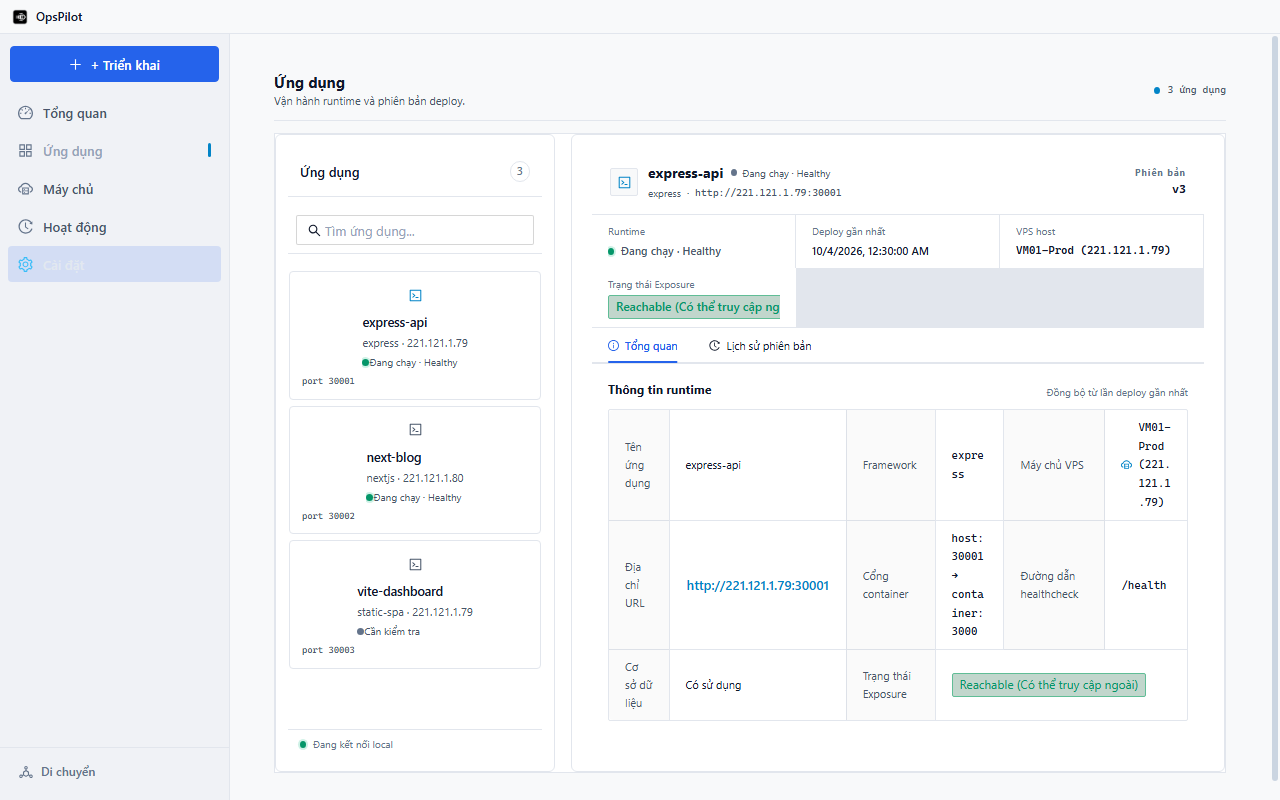
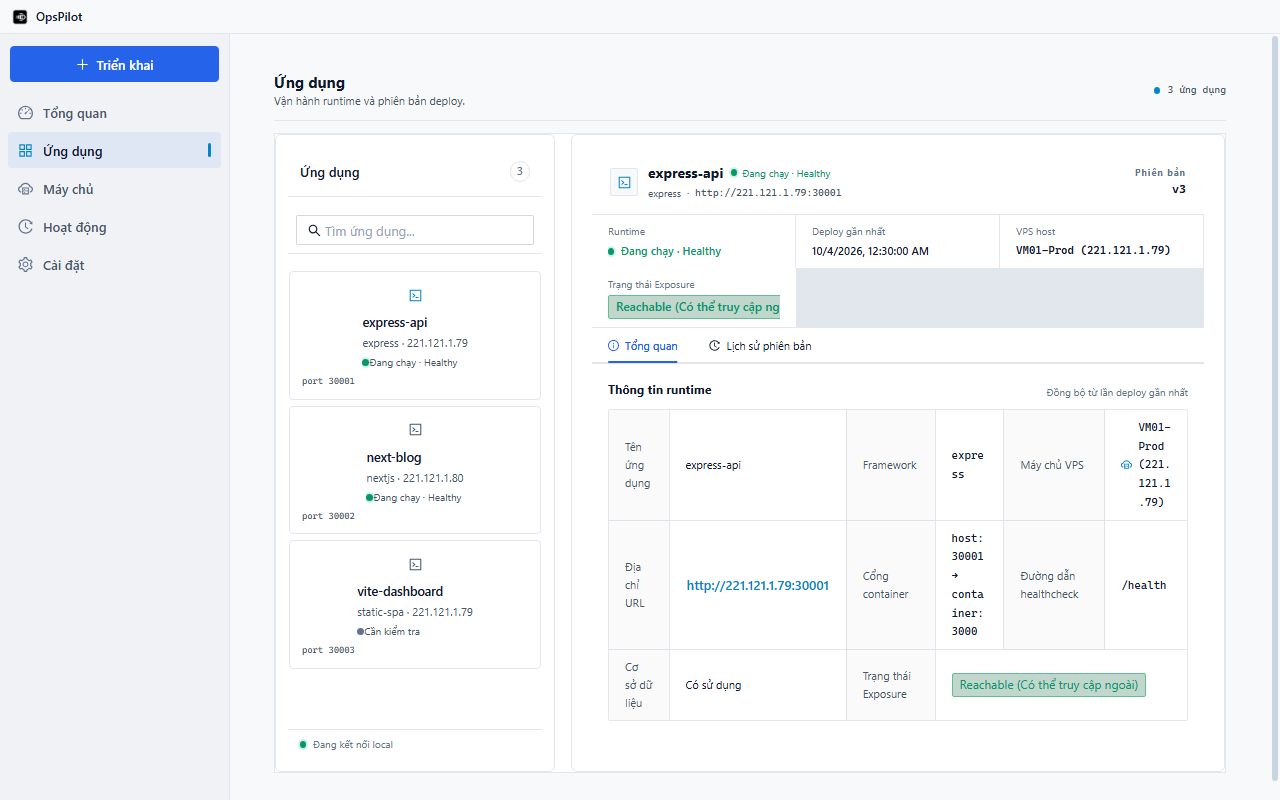
fix(ui): tinh chinh gate UI-1a shell, sidebar va anh chup cua so native

diff --git a/app/src/renderer/src/App.test.tsx b/app/src/renderer/src/App.test.tsx
@@ -61,14 +61,17 @@ describe('resolveActivePage', () => {
 })
 
 describe('App — UI-1a Desktop Shell & Navigation', () => {
-  it('hien thi dung 5 muc dieu huong chinh tren sidebar, nut deploy action va secondary migrate', () => {
+  it('hien thi dung 5 muc dieu huong chinh tren sidebar va nut deploy action', () => {
     useUiState.setState({ locale: 'vi', activePage: 'apps' })
     const { container } = render(<App />)
 
-    // Nut Deploy action
-    expect(screen.getByRole('button', { name: '+ Triển khai' })).toBeTruthy()
+    // Nut Deploy action: dung 1 icon plus va chu Trien khai (khong co 2 dau cong)
+    const deployBtn = screen.getByRole('button', { name: 'Triển khai' })
+    expect(deployBtn).toBeTruthy()
+    expect(deployBtn.querySelector('.anticon-plus')).toBeTruthy()
+    expect(deployBtn.textContent).toBe('Triển khai')
 
-    // 5 muc dieu huong chinh
+    // 5 muc dieu huong chinh tren sidebar
     const nav = container.querySelector('.app-sidebar-nav')
     expect(nav).toBeTruthy()
     const navButtons = nav?.querySelectorAll('button')
@@ -79,20 +82,22 @@ describe('App — UI-1a Desktop Shell & Navigation', () => {
     expect(screen.getByRole('button', { name: 'Hoạt động' })).toBeTruthy()
     expect(screen.getByRole('button', { name: 'Cài đặt' })).toBeTruthy()
 
-    // Hanh dong phu Migrate
-    expect(screen.getByRole('button', { name: 'Di chuyển' })).toBeTruthy()
+    // Sidebar khong con nut secondary migrate o day
+    expect(container.querySelector('.app-sidebar-secondary')).toBeNull()
+    const allSidebarButtons = container.querySelectorAll('.app-sidebar button')
+    expect(allSidebarButtons.length).toBe(6) // 1 deploy action + 5 nav items
 
     // Khong co status bar hay chu Ready co dinh
     expect(container.querySelector('.app-statusbar')).toBeNull()
     expect(container.querySelector('.app-sidebar-footer')).toBeNull()
   })
 
-  it('dieu huong sang Deploy qua nut + Triển khai va co the quay lai apps', () => {
+  it('dieu huong sang Deploy qua nut Triển khai va co the quay lai apps', () => {
     useUiState.setState({ locale: 'vi', activePage: 'apps' })
     render(<App />)
 
-    // Bam + Trien khai
-    fireEvent.click(screen.getByRole('button', { name: '+ Triển khai' }))
+    // Bam Trien khai
+    fireEvent.click(screen.getByRole('button', { name: 'Triển khai' }))
     expect(useUiState.getState().activePage).toBe('deploy')
 
     // DeployPage co nut Quay lai
@@ -102,11 +107,15 @@ describe('App — UI-1a Desktop Shell & Navigation', () => {
     expect(useUiState.getState().activePage).toBe('apps')
   })
 
-  it('dieu huong sang Migrate qua nut phu va mo dung trang', () => {
-    useUiState.setState({ locale: 'vi', activePage: 'apps' })
+  it('giu loi vao MigratePage qua nut Di chuyển / Migrate o trang VPS', () => {
+    useUiState.setState({ locale: 'vi', activePage: 'vps' })
     render(<App />)
 
-    fireEvent.click(screen.getByRole('button', { name: 'Di chuyển' }))
+    // O trang VPS co nut hanh dong 'Di chuyển'
+    const migrateBtn = screen.getByRole('button', { name: /Di chuyển/i })
+    expect(migrateBtn).toBeTruthy()
+
+    fireEvent.click(migrateBtn)
     expect(useUiState.getState().activePage).toBe('migrate')
     expect(screen.getByText('Migrate giữa hai VPS')).toBeTruthy()
   })
@@ -116,19 +125,18 @@ describe('App — UI-1a Desktop Shell & Navigation', () => {
     render(<App />)
 
     // EN
-    expect(screen.getByRole('button', { name: '+ Deploy' })).toBeTruthy()
+    expect(screen.getByRole('button', { name: 'Deploy' })).toBeTruthy()
     expect(screen.getByRole('button', { name: 'Dashboard' })).toBeTruthy()
     expect(screen.getByRole('button', { name: 'Applications' })).toBeTruthy()
     expect(screen.getByRole('button', { name: 'Servers' })).toBeTruthy()
     expect(screen.getByRole('button', { name: 'Activity' })).toBeTruthy()
     expect(screen.getByRole('button', { name: 'Settings' })).toBeTruthy()
-    expect(screen.getByRole('button', { name: 'Migrate' })).toBeTruthy()
 
     // VI
     act(() => {
       useUiState.getState().setLocale('vi')
     })
-    expect(screen.getByRole('button', { name: '+ Triển khai' })).toBeTruthy()
+    expect(screen.getByRole('button', { name: 'Triển khai' })).toBeTruthy()
     expect(screen.getByRole('button', { name: 'Tổng quan' })).toBeTruthy()
     expect(screen.getByRole('button', { name: 'Ứng dụng' })).toBeTruthy()
     expect(screen.getByRole('button', { name: 'Máy chủ' })).toBeTruthy()
@@ -139,7 +147,7 @@ describe('App — UI-1a Desktop Shell & Navigation', () => {
     act(() => {
       useUiState.getState().setLocale('cn')
     })
-    expect(screen.getByRole('button', { name: '+ 部署' })).toBeTruthy()
+    expect(screen.getByRole('button', { name: '部署' })).toBeTruthy()
     expect(screen.getByRole('button', { name: '总览' })).toBeTruthy()
     expect(screen.getByRole('button', { name: '应用' })).toBeTruthy()
     expect(screen.getByRole('button', { name: '服务器' })).toBeTruthy()
@@ -150,7 +158,7 @@ describe('App — UI-1a Desktop Shell & Navigation', () => {
     act(() => {
       useUiState.getState().setLocale('jp')
     })
-    expect(screen.getByRole('button', { name: '+ デプロイ' })).toBeTruthy()
+    expect(screen.getByRole('button', { name: 'デプロイ' })).toBeTruthy()
     expect(screen.getByRole('button', { name: 'ダッシュボード' })).toBeTruthy()
     expect(screen.getByRole('button', { name: 'アプリ' })).toBeTruthy()
     expect(screen.getByRole('button', { name: 'サーバー' })).toBeTruthy()
@@ -165,7 +173,7 @@ describe('App — UI-1a Desktop Shell & Navigation', () => {
     // Tren trang Settings co segmented ngon ngu
     fireEvent.click(screen.getByText('Tiếng Việt'))
     expect(useUiState.getState().locale).toBe('vi')
-    expect(screen.getByRole('button', { name: '+ Triển khai' })).toBeTruthy()
+    expect(screen.getByRole('button', { name: 'Triển khai' })).toBeTruthy()
     expect(screen.getByRole('button', { name: 'Ứng dụng' })).toBeTruthy()
     expect(screen.getByRole('button', { name: 'Cài đặt' })).toBeTruthy()
   })

diff --git a/app/src/renderer/src/strings.ts b/app/src/renderer/src/strings.ts
@@ -648,6 +648,15 @@ const BASE_EN_STRINGS = {
 }
 
 const VI_OVERRIDES: Partial<typeof BASE_EN_STRINGS> = {
+  navigation: {
+    vps: 'Máy chủ',
+    apps: 'Ứng dụng',
+    deploy: 'Triển khai',
+    dashboard: 'Tổng quan',
+    migrate: 'Di chuyển',
+    history: 'Hoạt động',
+    settings: 'Cài đặt'
+  },
   common: {
     cancel: 'Hủy',
     notAvailable: 'Chưa có',
@@ -829,6 +838,15 @@ const VI_OVERRIDES: Partial<typeof BASE_EN_STRINGS> = {
 }
 
 const CN_OVERRIDES: Partial<typeof BASE_EN_STRINGS> = {
+  navigation: {
+    vps: '服务器',
+    apps: '应用',
+    deploy: '部署',
+    dashboard: '总览',
+    migrate: '迁移',
+    history: '操作动态',
+    settings: '系统设置'
+  },
   common: {
     cancel: '取消',
     notAvailable: '暂无',
@@ -1003,6 +1021,15 @@ const CN_OVERRIDES: Partial<typeof BASE_EN_STRINGS> = {
 }
 
 const JP_OVERRIDES: Partial<typeof BASE_EN_STRINGS> = {
+  navigation: {
+    vps: 'サーバー',
+    apps: 'アプリ',
+    deploy: 'デプロイ',
+    dashboard: 'ダッシュボード',
+    migrate: '移行',
+    history: 'アクティビティ',
+    settings: 'システム設定'
+  },
   common: {
     cancel: 'キャンセル',
     notAvailable: 'なし',
@@ -1189,6 +1216,7 @@ const LOCALIZED_DICTIONARIES: Record<LocaleMode, typeof BASE_EN_STRINGS> = {
     ...BASE_EN_STRINGS,
     ...VI_OVERRIDES,
     common: { ...BASE_EN_STRINGS.common, ...VI_OVERRIDES.common },
+    navigation: { ...BASE_EN_STRINGS.navigation, ...VI_OVERRIDES.navigation },
     apps: { ...BASE_EN_STRINGS.apps, ...VI_OVERRIDES.apps },
     deploy: {
       ...BASE_EN_STRINGS.deploy,
@@ -1217,6 +1245,7 @@ const LOCALIZED_DICTIONARIES: Record<LocaleMode, typeof BASE_EN_STRINGS> = {
     ...BASE_EN_STRINGS,
     ...CN_OVERRIDES,
     common: { ...BASE_EN_STRINGS.common, ...CN_OVERRIDES.common },
+    navigation: { ...BASE_EN_STRINGS.navigation, ...CN_OVERRIDES.navigation },
     apps: { ...BASE_EN_STRINGS.apps, ...CN_OVERRIDES.apps },
     deploy: {
       ...BASE_EN_STRINGS.deploy,
@@ -1245,6 +1274,7 @@ const LOCALIZED_DICTIONARIES: Record<LocaleMode, typeof BASE_EN_STRINGS> = {
     ...BASE_EN_STRINGS,
     ...JP_OVERRIDES,
     common: { ...BASE_EN_STRINGS.common, ...JP_OVERRIDES.common },
+    navigation: { ...BASE_EN_STRINGS.navigation, ...JP_OVERRIDES.navigation },
     apps: { ...BASE_EN_STRINGS.apps, ...JP_OVERRIDES.apps },
     deploy: {
       ...BASE_EN_STRINGS.deploy,

diff --git a/app/src/renderer/src/utils/locales.ts b/app/src/renderer/src/utils/locales.ts
@@ -49,7 +49,7 @@ export const LOCALES: Record<LocaleMode, LocaleStrings> = {
       activity: 'Hoạt động',
       settings: 'Cài đặt',
       deploy: 'Triển khai',
-      deployAction: '+ Triển khai',
+      deployAction: 'Triển khai',
       migrate: 'Di chuyển',
       history: 'Hoạt động'
     },
@@ -75,7 +75,7 @@ export const LOCALES: Record<LocaleMode, LocaleStrings> = {
       activity: 'Activity',
       settings: 'Settings',
       deploy: 'Deploy',
-      deployAction: '+ Deploy',
+      deployAction: 'Deploy',
       migrate: 'Migrate',
       history: 'Activity'
     },
@@ -101,7 +101,7 @@ export const LOCALES: Record<LocaleMode, LocaleStrings> = {
       activity: '操作动态',
       settings: '系统设置',
       deploy: '部署',
-      deployAction: '+ 部署',
+      deployAction: '部署',
       migrate: '迁移',
       history: '操作动态'
     },
@@ -127,7 +127,7 @@ export const LOCALES: Record<LocaleMode, LocaleStrings> = {
       activity: 'アクティビティ',
       settings: 'システム設定',
       deploy: 'デプロイ',
-      deployAction: '+ デプロイ',
+      deployAction: 'デプロイ',
       migrate: '移行',
       history: 'アクティビティ'
     },

diff --git a/app/src/renderer/src/App.tsx b/app/src/renderer/src/App.tsx
@@ -3,7 +3,6 @@ import {
   AppstoreOutlined,
   CloudServerOutlined,
   DashboardOutlined,
-  DeploymentUnitOutlined,
   HistoryOutlined,
   PlusOutlined,
   SettingOutlined
@@ -99,19 +98,6 @@ function App(): React.JSX.Element {
                   </button>
                 ))}
               </nav>
-
-              <div className="app-sidebar-secondary">
-                <button
-                  type="button"
-                  className={`app-sidebar-secondary-btn${page === 'migrate' ? ' app-sidebar-secondary-btn-active' : ''}`}
-                  onClick={() => setActivePage('migrate')}
-                  aria-label={t.navigation.migrate}
-                  aria-current={page === 'migrate' ? 'page' : undefined}
-                >
-                  <DeploymentUnitOutlined className="app-sidebar-secondary-icon" />
-                  <span>{t.navigation.migrate}</span>
-                </button>
-              </div>
             </aside>
 
             <main className="app-main">

diff --git a/app/src/renderer/src/assets/main.css b/app/src/renderer/src/assets/main.css
@@ -2416,46 +2416,6 @@
   background: var(--accent);
 }
 
-.app-sidebar-secondary {
-  margin-top: auto;
-  padding: 8px 8px 12px;
-  border-top: 1px solid var(--border);
-}
-
-.app-sidebar-secondary-btn {
-  display: flex;
-  align-items: center;
-  gap: 8px;
-  width: 100%;
-  height: 32px;
-  padding: 0 10px;
-  border: 1px solid transparent;
-  border-radius: 4px;
-  background: transparent;
-  color: var(--text-muted);
-  font: inherit;
-  font-size: 12px;
-  font-weight: 500;
-  text-align: left;
-  cursor: pointer;
-  transition: all 120ms ease;
-}
-
-.app-sidebar-secondary-btn:hover {
-  background: var(--fill-hover);
-  color: var(--text-primary);
-}
-
-.app-sidebar-secondary-btn-active {
-  background: var(--fill-selected);
-  color: var(--text-primary);
-  border-color: var(--border);
-}
-
-.app-sidebar-secondary-icon {
-  font-size: 14px;
-}
-
 .app-main {
   display: flex;
   flex: 1;

diff --git a/app/src/renderer/src/pages/VpsPage.test.tsx b/app/src/renderer/src/pages/VpsPage.test.tsx
@@ -358,4 +358,20 @@ describe('VpsPage — list trước, trang chi tiết riêng', () => {
     fireEvent.click(screen.getAllByText(strings.vps.checkResources)[0])
     await waitFor(() => expect(getResources).toHaveBeenCalledTimes(4))
   })
+
+  it('nut Migrate tren PageHeader chuyen activePage ve migrate', async () => {
+    mockApi({
+      'vps:list': async () => ({ ok: true, data: [VPS_A] }),
+      'vps:get-resources': async () => ({ ok: true, data: RES }),
+      'app:list': async () => ({ ok: true, data: [] })
+    })
+
+    render(<VpsPage />)
+    const migrateBtn = screen.getByRole('button', {
+      name: new RegExp(strings.navigation.migrate, 'i')
+    })
+    expect(migrateBtn).toBeTruthy()
+    fireEvent.click(migrateBtn)
+    expect(useUiState.getState().activePage).toBe('migrate')
+  })
 })

diff --git a/docs/ui-redesign/README.md b/docs/ui-redesign/README.md
@@ -67,8 +67,8 @@ Toàn bộ 24 ảnh chụp bản dựng hiện tại trong [docs/ui-redesign/scr
 Prototype tương tác độc lập được lưu trữ tại [docs/ui-redesign/prototype/](file:///D:/Developing/DuAnCNTT/docs/ui-redesign/prototype/):
 * Các file mã nguồn: [`index.html`](file:///D:/Developing/DuAnCNTT/docs/ui-redesign/prototype/index.html), [`styles.css`](file:///D:/Developing/DuAnCNTT/docs/ui-redesign/prototype/styles.css), [`app.js`](file:///D:/Developing/DuAnCNTT/docs/ui-redesign/prototype/app.js).
 
-### 3.1. Các điểm cải tiến nổi bật trong Prototype
-1. **Sidebar cố định 5 mục & Nút Action Deploy**: `Tổng quan`, `Ứng dụng`, `Máy chủ`, `Hoạt động`, `Cài đặt`. Nút `+ Triển khai` điều hướng sang màn `DeployPage` hiện có kèm preselect app/VPS.
+### 3.1. Các điểm cải tiến nổi bật trong Prototype & UI-1a Shell
+1. **Sidebar cố định 5 mục & Nút Action Deploy**: `Tổng quan`, `Ứng dụng`, `Máy chủ`, `Hoạt động`, `Cài đặt`. Nút `+ Triển khai` (icon `+` cùng nhãn `Triển khai`, không lặp dấu cộng) điều hướng sang màn `DeployPage` hiện có kèm preselect app/VPS. Lối vào MigratePage được bố trí qua nút hành động trên trang Máy chủ (`VpsPage`), giữ sidebar tinh giản đúng 5 mục chính.
 2. **Sửa nút Ops Fleet chuẩn CSS**: Nút chọn fleet trong sidebar được đồng bộ màu nền và viền theo biến theme (`var(--bg-card-subtle)`), không còn bị trắng mặc định trên nền tối.
 3. **Nhãn Prototype gọn, dễ thấy**: Đặt nhãn `Prototype · Dữ liệu mẫu` trực quan trên thanh tiêu đề. Các thông báo tương tác (alert) đều ghi rõ tiền tố `[Mô phỏng Prototype]` để xác nhận chỉ là mô phỏng giao diện.
 4. **Tìm kiếm và Lọc VPS hoạt động kết hợp đồng thời**:
@@ -138,7 +138,7 @@ Bộ tiêu chí nghiệm thu UI-1 được định nghĩa tinh gọn, tập trun
 
 ### AC-2: Hệ thống Điều hướng 5 mục & Nút Action Deploy
 * [ ] **AC-2.1 (5 mục điều hướng)**: Sidebar chứa đúng 5 mục: `Tổng quan`, `Ứng dụng`, `Máy chủ`, `Hoạt động`, `Cài đặt`. Thứ tự hiển thị đặt `Ứng dụng` lên vị trí ưu tiên cao hơn `Máy chủ`.
-* [ ] **AC-2.2 (Nút Action Deploy)**: Nút `+ Triển khai` là nút hành động nổi bật trên sidebar. Khi bấm, điều hướng sang màn `DeployPage` hiện có (gọi `setActivePage('deploy')`) và truyền preselect (`appId`, `vpsId`) nếu đang ở ngữ cảnh ứng dụng hoặc máy chủ; không tạo modal chạy deploy mới.
+* [ ] **AC-2.2 (Nút Action Deploy)**: Nút `Triển khai` (có icon `+` PlusOutlined, không lặp dấu cộng) là nút hành động nổi bật trên sidebar. Khi bấm, điều hướng sang màn `DeployPage` hiện có (gọi `setActivePage('deploy')`) và truyền preselect (`appId`, `vpsId`) nếu đang ở ngữ cảnh ứng dụng hoặc máy chủ; không tạo modal chạy deploy mới. Lối vào MigratePage nằm tại nút hành động trên trang Máy chủ.
 * [ ] **AC-2.3 (Loại bỏ dead menus)**: Không giữ lại bất kỳ menu nào chỉ hiển thị hộp thoại `alert()` hoặc trang trống (ví dụ: gộp chức năng Doctor vào trang chi tiết tương ứng thay vì để menu riêng lẻ).
 
 ### AC-3: Bố cục Tab ngang tại các trang chi tiết (Chỉ làm tab dùng được bằng IPC hiện có)
